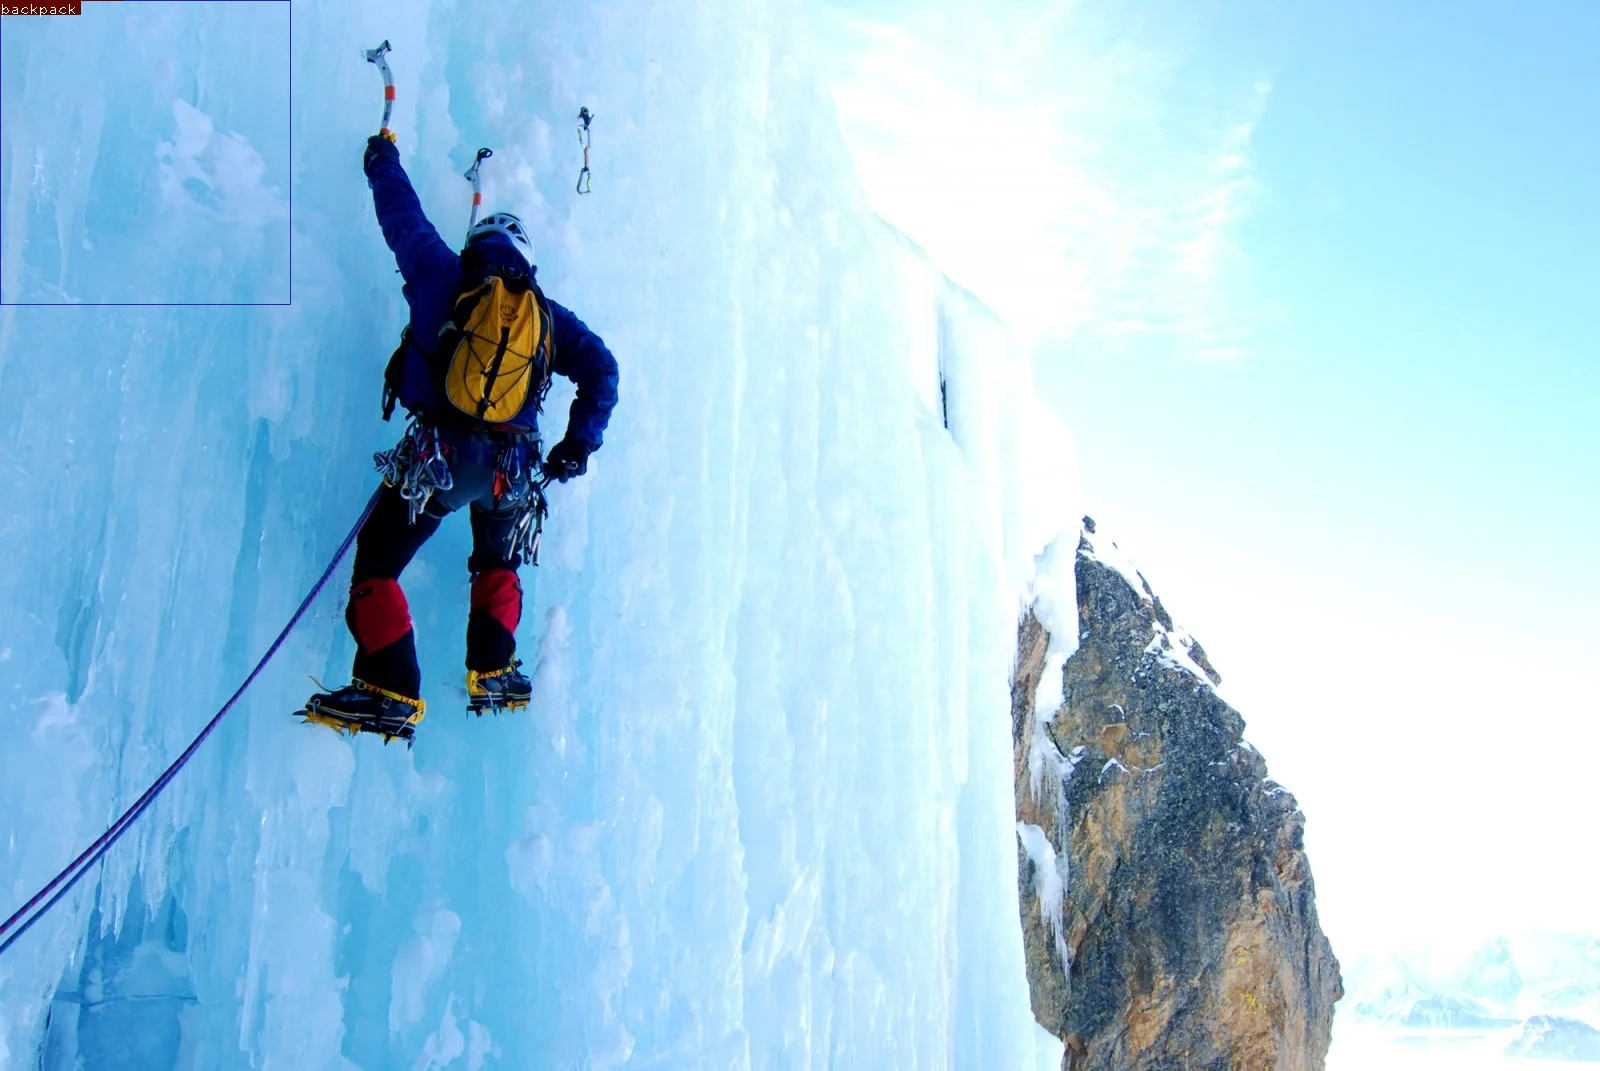
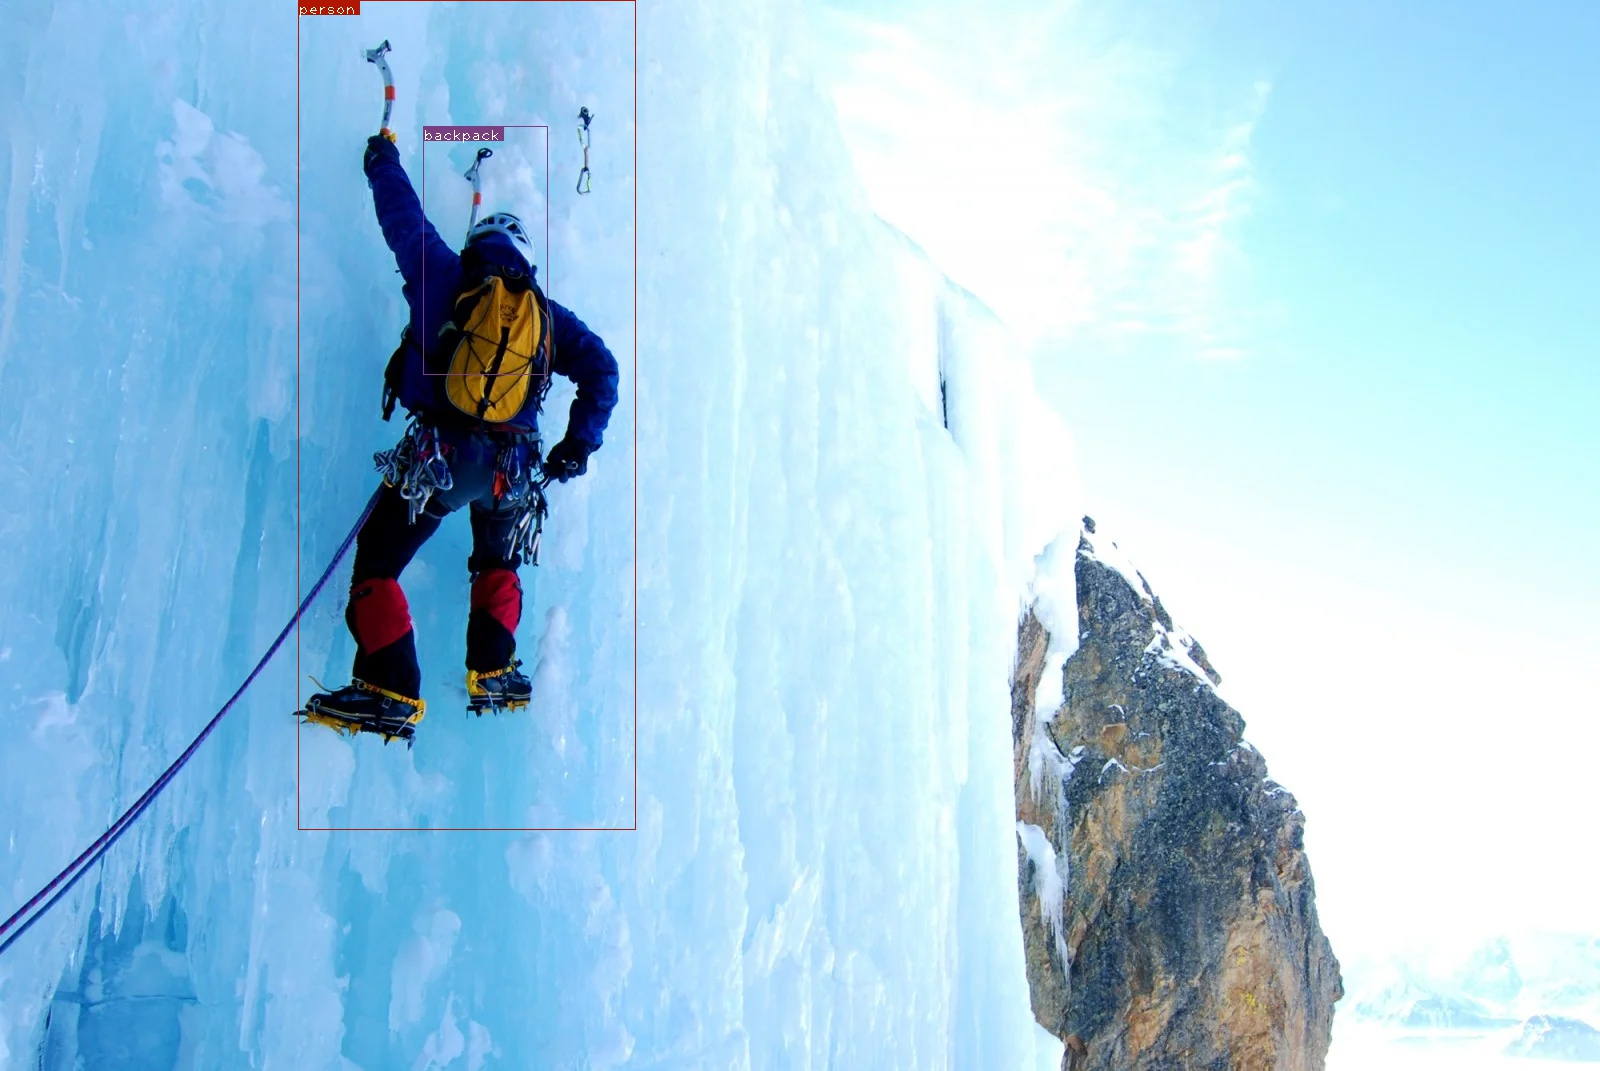
Annotated and refined write_results function

diff --git a/darknet_operational_functions.py b/darknet_operational_functions.py
@@ -75,7 +75,13 @@ def predict_transform(prediction, input_dim, anchors, total_classes, CUDA = True
     # We further flatten, such that the last column is only the attributes, and the middle column is grid cells x anchors
     prediction = prediction.view(batch_size, grid_size*grid_size*num_anchors, bbox_attrs)
 
+    # Sigmoid the centre x, centre y, and object confidencce per mathematical equation for anchor box transformations
+    prediction[:,:,0] = torch.sigmoid(prediction[:,:,0])
+    prediction[:,:,1] = torch.sigmoid(prediction[:,:,1])
+    prediction[:,:,4] = torch.sigmoid(prediction[:,:,4])
+
     # Create an arange from 0 to the length of one side of the constructed detection grid
+    # I believe the sigmoid on the position means we can leave the grid size as a unit vector value in increments of 1
     grid = np.arange(grid_size)
 
     # Add the grid center offsets to the center cordinates prediction. Create a meshgrid that counts from 0 up to the grid_size
@@ -106,13 +112,13 @@ def predict_transform(prediction, input_dim, anchors, total_classes, CUDA = True
     # NOTE: This matches the mathematical theory for anchor box translation sig(predx)+(anchorx)=boxx (same for y)
     prediction[:,:,:2] += x_y_offset
 
-    # Sigmoid the centre x, centre y, and object confidencce per mathematical equation for anchor box transformations
-    prediction[:,:,0] = torch.sigmoid(prediction[:,:,0])
-    prediction[:,:,1] = torch.sigmoid(prediction[:,:,1])
-    prediction[:,:,4] = torch.sigmoid(prediction[:,:,4])
-
     # Rescaling the anchors to match the resized image. Each anchor has width and height that gets scaled by stride value
     anchors = [(a[0]/stride, a[1]/stride) for a in anchors]
+
+
+
+
+
 
     # Apply the anchors to the dimensions of the bounding box.
     anchors = torch.FloatTensor(anchors)
@@ -156,9 +162,8 @@ def write_results(prediction, confidence, total_classes, suppress_threshold = 0.
     # If a bounding box has an objectness score below a threshold, set the entire row (all attributes) to zero
     # Note: Need to print this section to visually confirm operation running as predicted
     conf_mask = (prediction[:,:,4] > confidence).float().unsqueeze(2) # Shape = [#images batch, # boxes, index 4 from prediction as boolean 0 or 1]
-
-    # prediction = prediction[prediction[:,:,4] > confidence]
     prediction = prediction*conf_mask # Conducts broadcasting here, where the boolean is multiplied across the matrix to zero out any objectness below confidence
+
     # NOTE: that index 4 is holding the objectness value. the conf_mask temporarily uses the objectness against confidence to set low confidence information to zero
 
     # Boxes have 4 indexes that conform to the center x coordinate, y coordinate, and box height and width
@@ -183,84 +188,65 @@ def write_results(prediction, confidence, total_classes, suppress_threshold = 0.
         # Pick the maximum class score which starts after objectness and the 4 box numbers and goes for number of classes
         # NOTE: I wonder if there would be improved Non Max Suppression by keeping second and third class choices around
         # to compare against surrounding detections and suppress if there are collisions between a second choice and first
-        max_class_confidence, max_class_index = torch.max(image_prediction[:,5:5 + total_classes], 1)
         # Torch max returns tuple (max, max_indices) The one '1' takes max across row, preserving column dimension
-        seq = (image_prediction[:,:5], max_class_confidence.float().unsqueeze(1), max_class_index.float().unsqueeze(1))
-        # We unsqueeze the values, so that we can add them into a tuple
-        # seq contains the 10647 x 5 bounding boxes (4) + objectness (1) in first position, the 10647 x 1 classes in second position,
-        # and the 10647 x 1 class confidences in the third position. The lenth of seq is 3.
-        # print(seq[0], 'Column Boxes and Objectness')
-        # print(seq[1], 'Column class confidence')
-        # print(seq[2], 'Column chosen class')
+        max_class_confidence, max_class_index = torch.max(image_prediction[:,5:5 + total_classes], 1)
 
-        image_prediction = torch.cat(seq, 1) # This line of code concatenates the three individual tensors arranged in the tuple
-        # back into a single tensor, 10647 x 7, where [#,6] is the 7th column containing the chosen class or class index
-
+        # Concatenate sequence of 10647 x 5 bounding boxes (4) + objectness (1) in first position, the 10647 x 1 classes in second position,
+        # and the 10647 x 1 class confidences in the third position. We unsqueeze the values, so that we can make them a length 3 tuple
+        # Then we concatenate the three individual tensors arranged in the tuple back into a single tensor, 10647 x 7, with class in column 7
+        image_prediction = torch.cat((image_prediction[:,:5], max_class_confidence.unsqueeze(1), max_class_index.unsqueeze(1)), 1)
 
         # If no detections at all, then there would be an error, so we use try
         try:
-            # Parsed through all of this crazy code below and replaced it with one simple single line.
+            # Example of parsing through a bunch of crazy code below and replacing it with one simple single line.
                 # non_zero_objectness =  (torch.nonzero(image_prediction[:,4]))
                 # image_positive_prediction = image_prediction[non_zero_objectness,:].view(-1,7)
                 # image_positive_prediction = image_prediction[torch.nonzero(image_prediction[:,4]).squeeze()].view(-1,7)
 
-            # Search all rows along column 4 (objectness) and only return rows that are non zero objectness (set by conf_mask)
+            # Search all rows along column 4 (objectness) and only return rows that were not zero'd out (set by conf_mask)
             image_positive_prediction = image_prediction[image_prediction[:,4] != 0]
             # MOVING FORWARD OUR MATRIX OF POSSIBLE DETECTIONS IS A FRACTION OF THE ORIGINAL TOTAL 10647 ATTEMPTS
         except:
             continue
 
-
         # Time to perform the Non Max Suppresion algorithm
         # First we iterate through the detected classes, one class at a time (-1 index holds the class index)
-        for cls in unique(image_positive_prediction[:,-1]):
-
-            # Return boolean of positive prediction matrix detecting the iterated class, multiply to get the detections with one particular class.
-            cls_mask = image_positive_prediction*(image_positive_prediction[:,-1] == cls).float().unsqueeze(1)
-            # Now we use non.zero to return the row index of each row with a true boolean. -2 is irrelevant, any nonzero column works
-            class_mask_ind = torch.nonzero(cls_mask[:,-2]).squeeze()
-            # Now we search our original prediction matrix for the rows with the non-zero indices and return it in a specific view
-            image_pred_class = image_positive_prediction[class_mask_ind].view(-1,7)
+        for class_detection in unique(image_positive_prediction[:,-1]):
 
             # Return only the set of rows that correspond to the class that is being observed
-            image_pred_class = image_positive_prediction[image_positive_prediction[:,-1] == cls]
+            image_class_prediction = image_positive_prediction[image_positive_prediction[:,-1] == class_detection]
 
-            # sort the detections such that the entry with the maximum objectness
-            # confidence is at the top
-            conf_sort_index = torch.sort(image_pred_class[:,4], descending = True)[1]
-            image_pred_class = image_pred_class[conf_sort_index]
-            idx = image_pred_class.size(0)   #Number of detections
+            # sort the detections to put the maximum objectness confidence at the top
+            conf_sort_index = torch.sort(image_class_prediction[:,4], descending = True)[1]
+            image_class_prediction = image_class_prediction[conf_sort_index]
 
-            for i in range(idx):
-                #Get the IOUs of all boxes that come after the one we are looking at
-                #in the loop
+            # Now we iterate through the number of detections made to compare intersection of union for non max suppression
+            for detection in range(image_class_prediction.size(0)):
+                # Get the IOUs of all boxes that come after the one we are looking at
                 try:
-                    ious = bbox_iou(image_pred_class[i].unsqueeze(0), image_pred_class[i+1:])
+                    ious = bbox_iou(image_class_prediction[detection].unsqueeze(0), image_class_prediction[detection+1:])
                 except ValueError:
                     break
                 except IndexError:
                     break
 
-                #Zero out all the detections that have IoU > treshhold
+                # Zero out detections based on intersection of union compared to non max suppression threshold
                 iou_mask = (ious < suppress_threshold).float().unsqueeze(1)
-                image_pred_class[i+1:] *= iou_mask
 
-                #Remove the non-zero entries
-                non_zero_objectness = torch.nonzero(image_pred_class[:,4]).squeeze()
-                image_pred_class = image_pred_class[non_zero_objectness].view(-1,7)
+                # Broadcast zero'd out mask against the prediction matrix
+                image_class_prediction[detection+1:] *= iou_mask
 
-                # Should be able to replace above lines with the same simplified lines of code
+                # Search all rows along column 4 (objectness) and only return rows that were not zero'd out (set by conf_mask)
+                image_class_prediction = image_class_prediction[image_class_prediction[:,4] != 0]
 
             # Create a batch id to associate the detections to the batch id and repeat for all detections of every class in the image
-            batch_ind = image_pred_class.new(image_pred_class.size(0), 1).fill_(image)
-
-            seq = batch_ind, image_pred_class
+            batch_ind = image_class_prediction.new(image_class_prediction.size(0), 1).fill_(image)
 
             if not write:
-                output = torch.cat(seq,1)
+                output = torch.cat((batch_ind, image_class_prediction),1)
                 write = True
             else:
-                out = torch.cat(seq,1)
+                out = torch.cat((batch_ind, image_class_prediction),1)
                 output = torch.cat((output,out))
 
     try:

diff --git a/darknet_detector.py b/darknet_detector.py
@@ -236,7 +236,7 @@ def write(x, results, color):
 # Here we modify the images inside loaded_ims inplace.
 
 list(map(lambda x: write(x, loaded_ims, random.choice(colors)), output))
-print(args.det)
+
 det_names = pd.Series(imlist).apply(lambda x: "{}/det_{}".format(args.det,x.split("/")[-1]))
 
 
@@ -244,9 +244,6 @@ det_names = pd.Series(imlist).apply(lambda x: "{}/det_{}".format(args.det,x.spli
 
 
 list(map(cv2.imwrite, det_names, loaded_ims))
-
-print(det_names)
-
 
 
 end = time.time()
